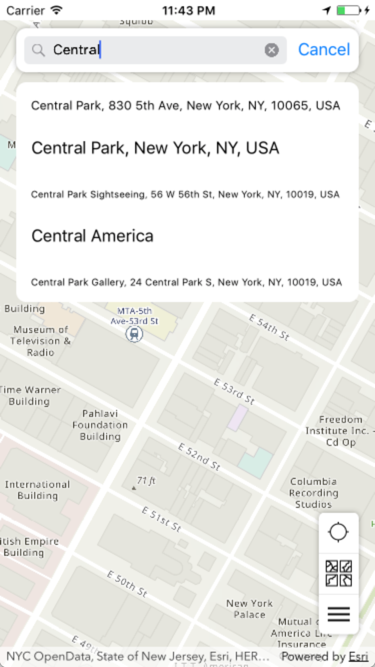
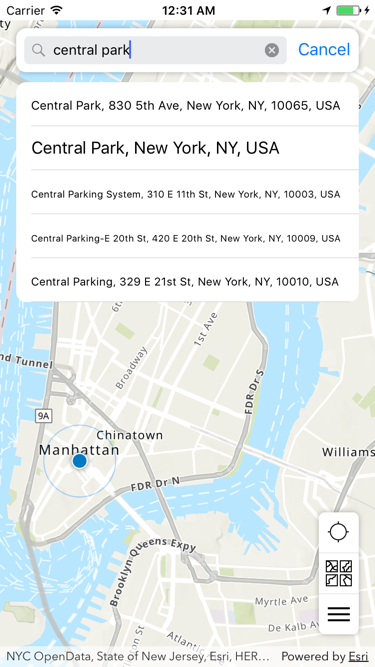
Fix suggestions image and reference.

diff --git a/maps-app-ios/README.md b/maps-app-ios/README.md
@@ -105,13 +105,15 @@ if let geocoderURL = portal.portalInfo?.helperServices?.geocodeServiceURLs?.firs
 }
 ```
 
-Before using the LocatorTask for geocode or searching for places, the `AGSLocatorTask` must be LOADED. The loadable pattern is described [here](https://developers.arcgis.com/ios/latest/swift/guide/loadable-pattern.htm). The ArcGIS Runtime SDK for iOS is implemented so that any action on a loadable task waits internally until the task is loaded. This means that you can safely write code like this and allow the ArcGIS Runtime to handle the load behind the scenes before any geocode request is sent (if the locator is already loaded, it doesn't try to load again but moves straight on to the actual geocode):
+Before using the `AGSLocatorTask` for geocode or searching for places, it must be LOADED. The loadable pattern is described [here](https://developers.arcgis.com/ios/latest/swift/guide/loadable-pattern.htm).
+
+The ArcGIS Runtime SDK for iOS is implemented so that any action on a loadable task is queued internally until the task is loaded. This means that you can safely write code like the following and allow the ArcGIS Runtime to handle the load behind the scenes before any geocode request is sent:
 
 ``` Swift
 func search(searchText:String) {
     locator.geocode(withSearchText: searchText, parameters: params) { results, error in
         guard error == nil else {
-            // This error could be because the locator failed to load...
+            // This could be a load error OR a search error...
             print("Error performing search! \(error!.localizedDescription)")
             return
         }
@@ -125,14 +127,18 @@ func search(searchText:String) {
 }
 ```
 
-## Place Suggestions
-Typing the first few letters of a place into the Map App search box (e.g. “Central Park”) shows a number of suggestions near the device’s location
+ If the `AGSLocatorTask` above is already loaded, the ArcGIS Runtime SDK doesn't try to load again but moves straight on to the actual geocode.
 
-![] (assets/suggest.png)
+## Place Suggestions
+Typing the first few letters of a place into the Map App search box (e.g. “Central Park”) shows a number of suggestions near the device’s location.
+
+![](/docs/images/app-suggestions.png)
+
+This is a simple call on the `AGSLocatorTask`:
 
 ``` Swift
 func getSuggestions(forSearchText searchText:String) {
-    self.locator.suggest(withSearchText: searchText) { suggestions, error in
+    locator.suggest(withSearchText: searchText) { suggestions, error in
         guard error == nil else {
             // This could be a load error OR a suggestions error...
             print("Error getting suggestions for \"\(searchText)\": \(error!.localizedDescription)")
@@ -144,7 +150,7 @@ func getSuggestions(forSearchText searchText:String) {
 }
 ```
 
-If there is a property you need to read before calling an async action on the loadable task, then you must explicitly load the task (in this case we modify the above code because we want to know if the locator supports providing interactive suggestions as the user types into a search bar):
+If there is a property you need to read before calling an async action on the loadable task, then you must explicitly load the task (in the following code, the above code is updated slightly to determine whether the locator supports interactive suggestions):
 
 ``` Swift
 func getSuggestions(forSearchText searchText:String) {
@@ -173,7 +179,7 @@ func getSuggestions(forSearchText searchText:String) {
 }
 ```
 
-Note how the above two patterns work to coalesce loading and asynchronous actions, and how this could impact the errors that are returned. Understanding this can guide how you might present errors to the user.
+Note how the above two patterns work to coalesce loading and asynchronous actions. Understanding this can guide how you might present errors to the user.
 
 ## Searching from a Suggestion
 Once a suggestion in the list has been selected by the user, the suggested address is geocoded using the geocode function of the `AGSLocatorTask`. Along with the address, specific [geocoding parameters](https://developers.arcgis.com/ios/latest/swift/guide/search-for-places-geocoding-.htm#ESRI_SECTION1_62AE6A47EB4B403ABBC72337A1255F8A) can be set to tune the results. For example, in the maps app, we set the [preferred location](https://developers.arcgis.com/ios/latest/api-reference/interface_a_g_s_geocode_parameters.html#a8d2dbede94ed26ecde13f9d766d767e2) to prioritize results closer to the center of the map.
